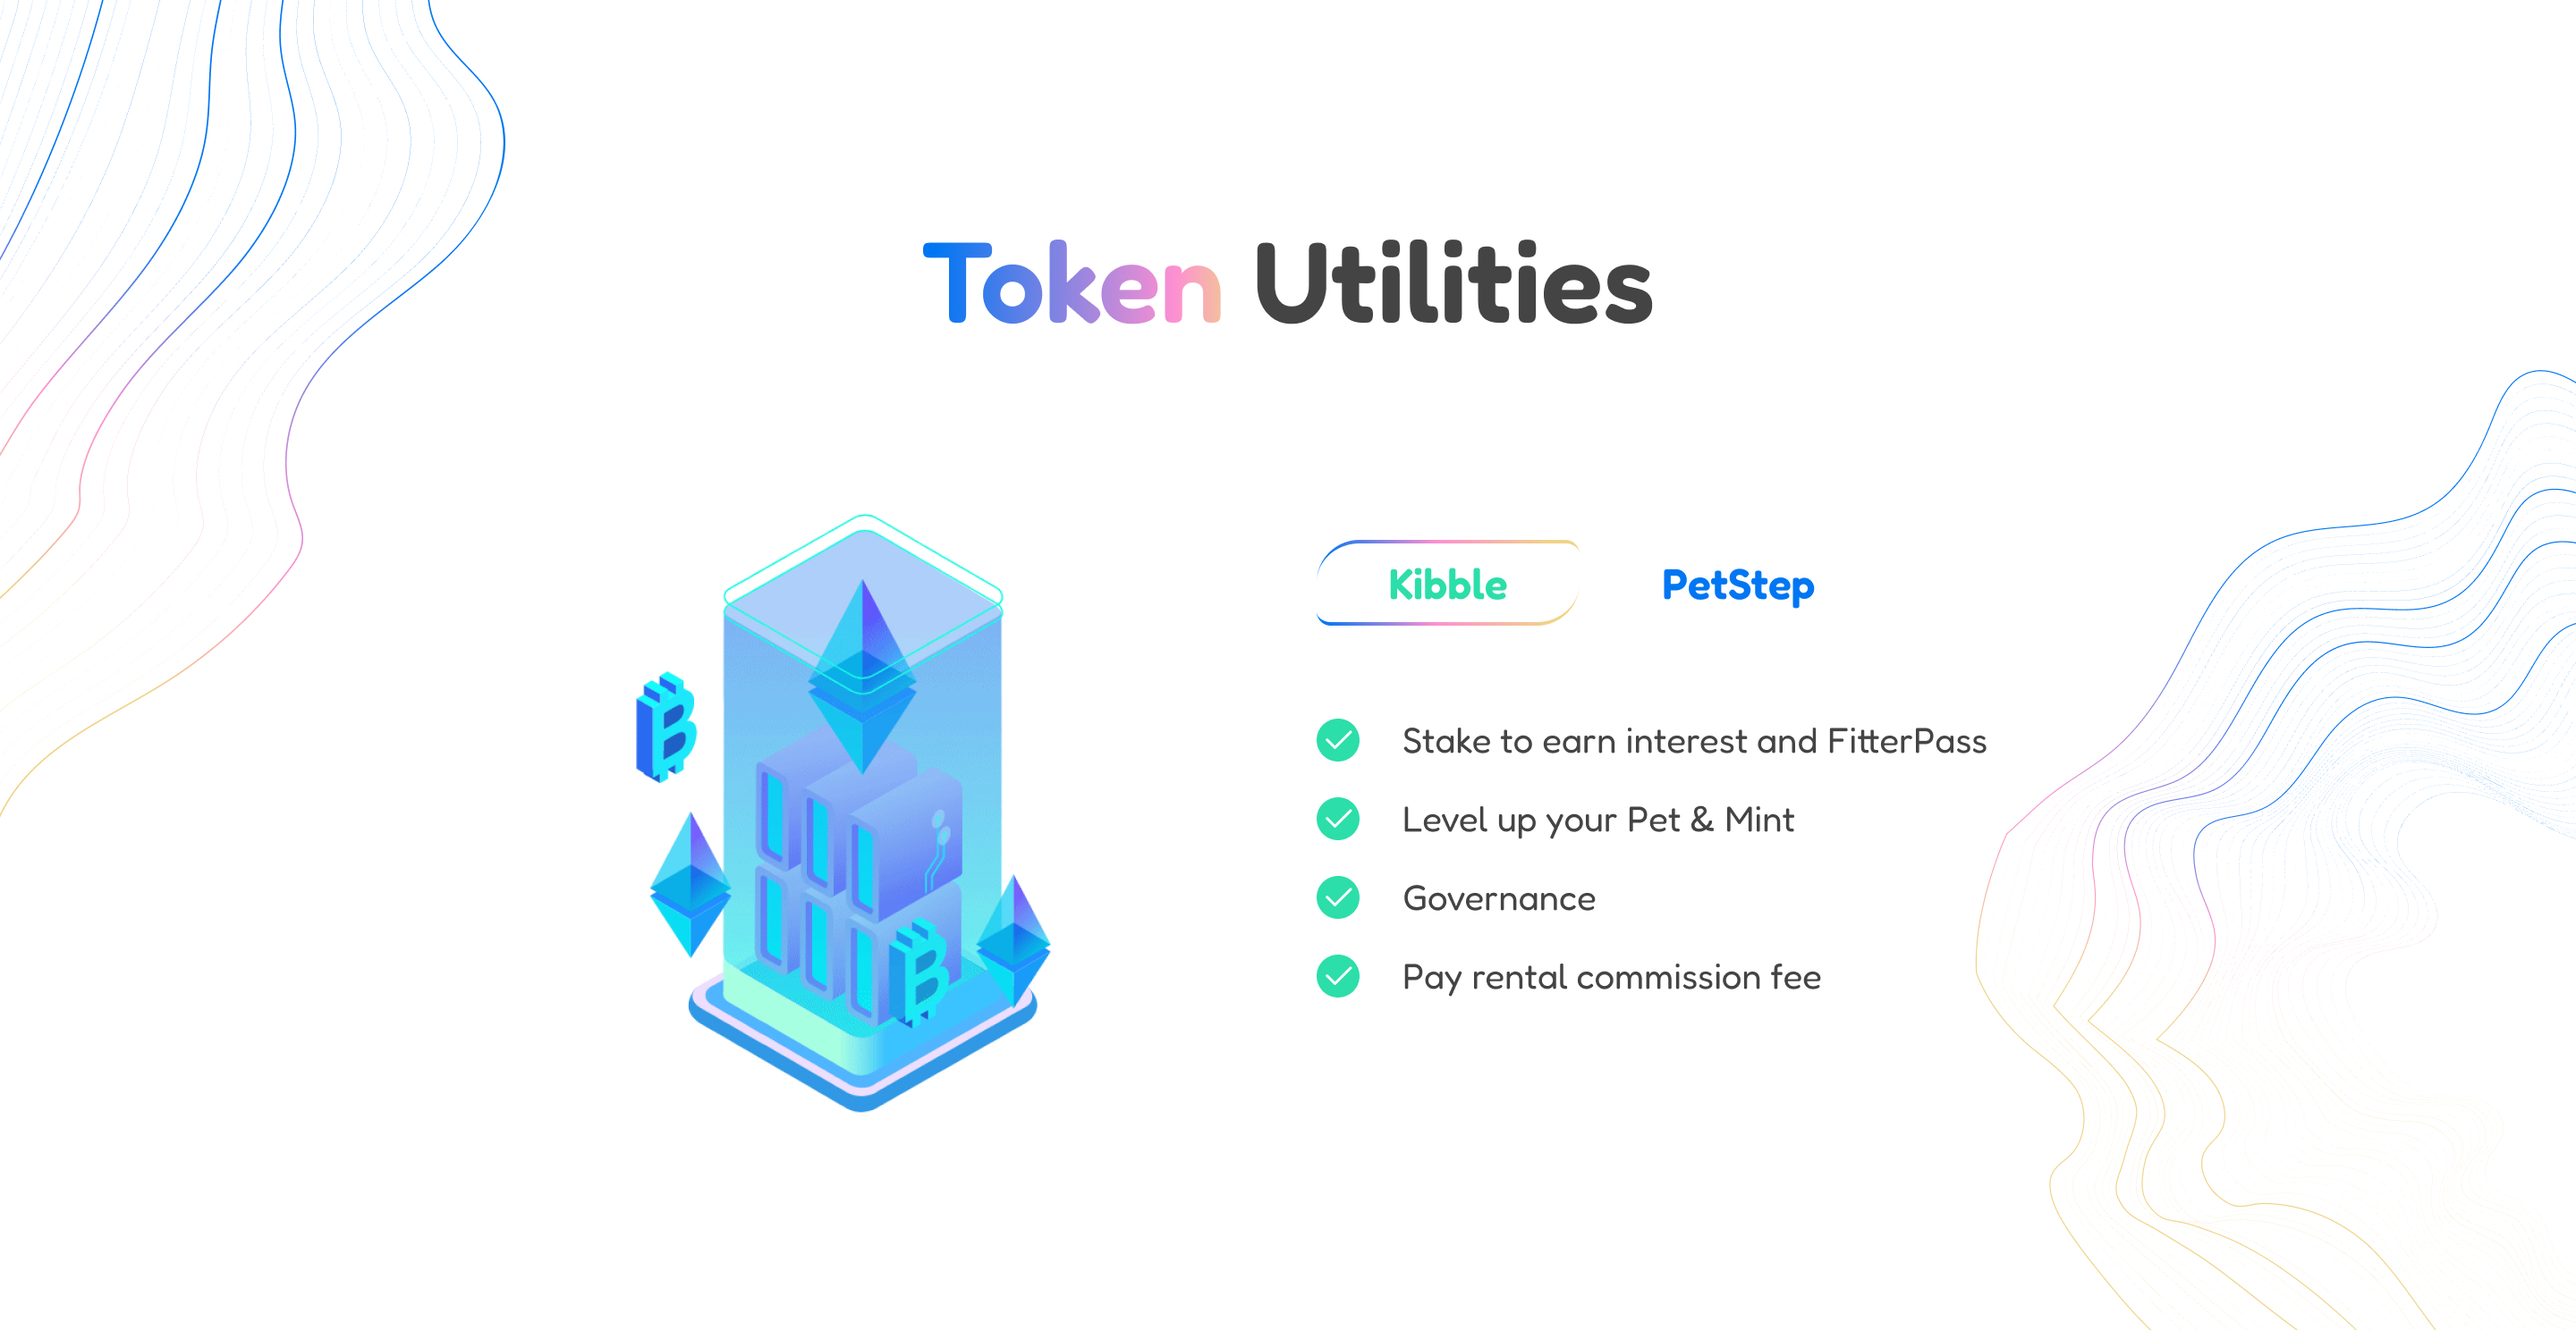
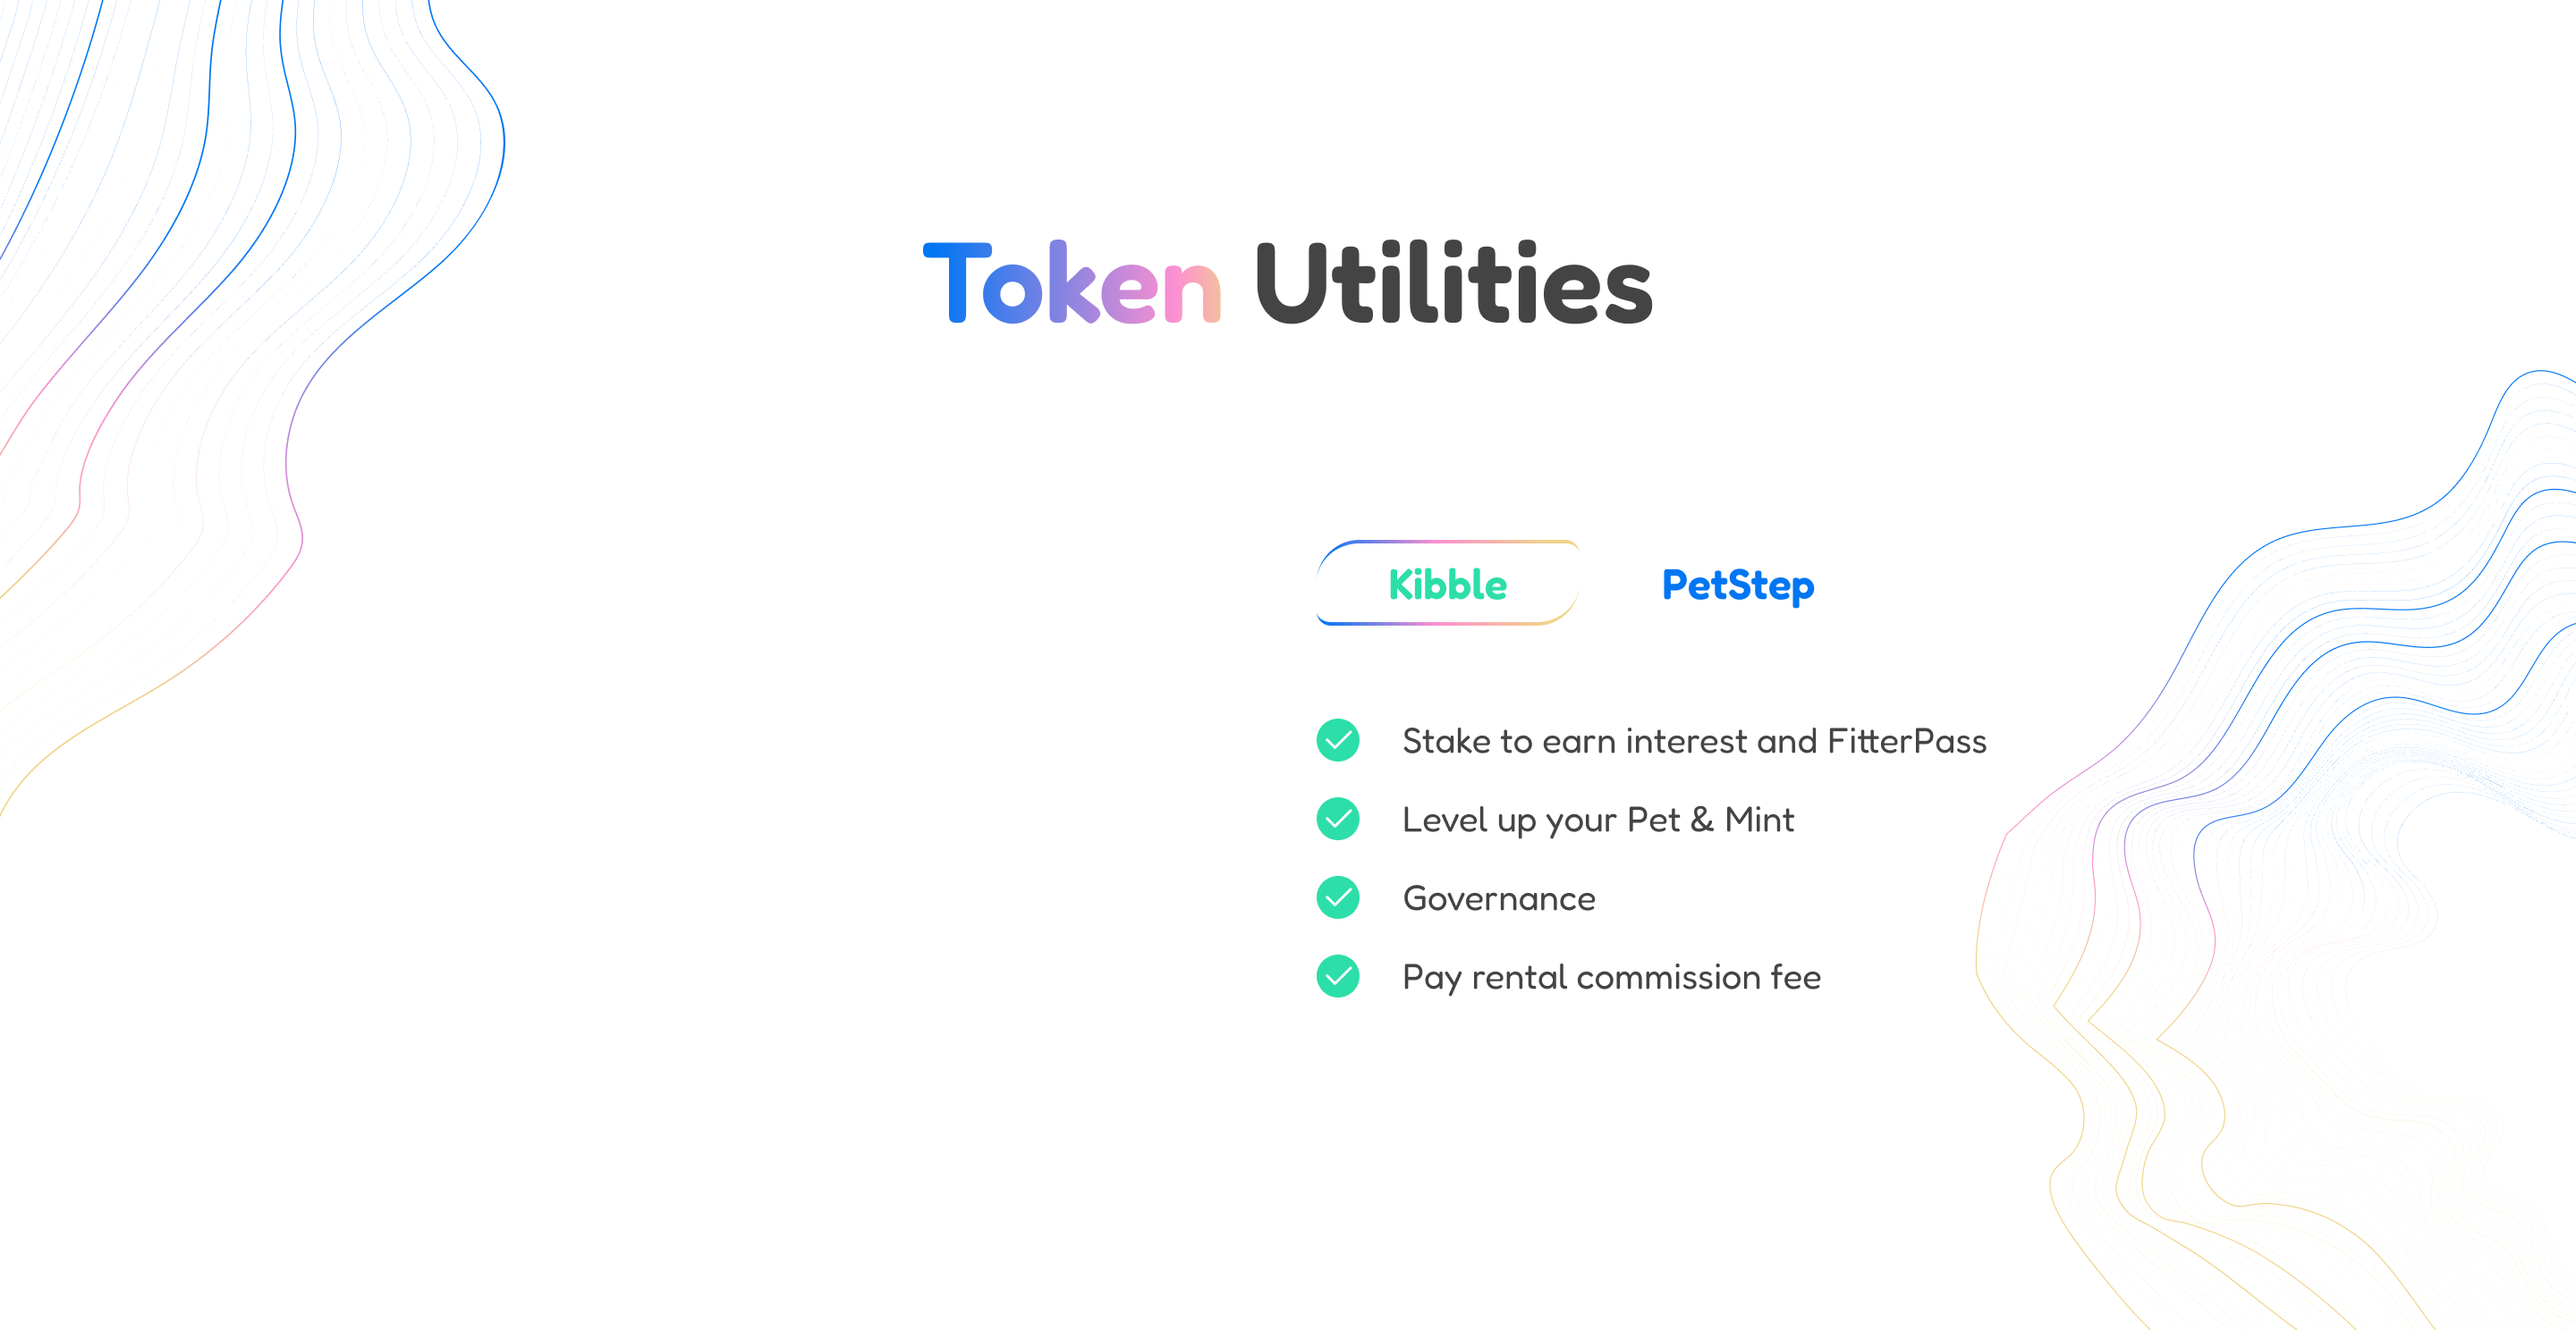
Update ui

Changed region(s): [[0.25, 0.4019, 0.4062, 0.8347]]

diff --git a/index.html b/index.html
@@ -27,7 +27,7 @@
               <a>About</a>
             </li>
             <li>
-              <a>Player</a>
+              <a>Paper</a>
             </li>
             <li>
               <a>Roadmap</a>
@@ -100,7 +100,11 @@
       </section>
       <section class="stats"></section>
       <section class="nft-system"></section>
-      <section class="token-utilities"></section>
+      <section class="token-utilities">
+        <div class="left-image-wrapper">
+          <img src="./assets/v253_10664.png" />
+        </div>
+      </section>
       <section class="roadmap"></section>
       <section class="feature">
         <div class="feature-icon-container">

diff --git a/styles/index.css b/styles/index.css
@@ -51,11 +51,20 @@ img {
 }
 
 .token-utilities {
+  position: relative;
   background-image: url("../assets/token_blk.jpg");
   background-repeat: no-repeat;
   background-position: center;
   background-size: cover;
   height: 744px;
+}
+
+.token-utilities .left-image-wrapper {
+  width: 384px;
+  height: 384px;
+  position: absolute;
+  top: 240px;
+  left: 274px;
 }
 
 .roadmap {
